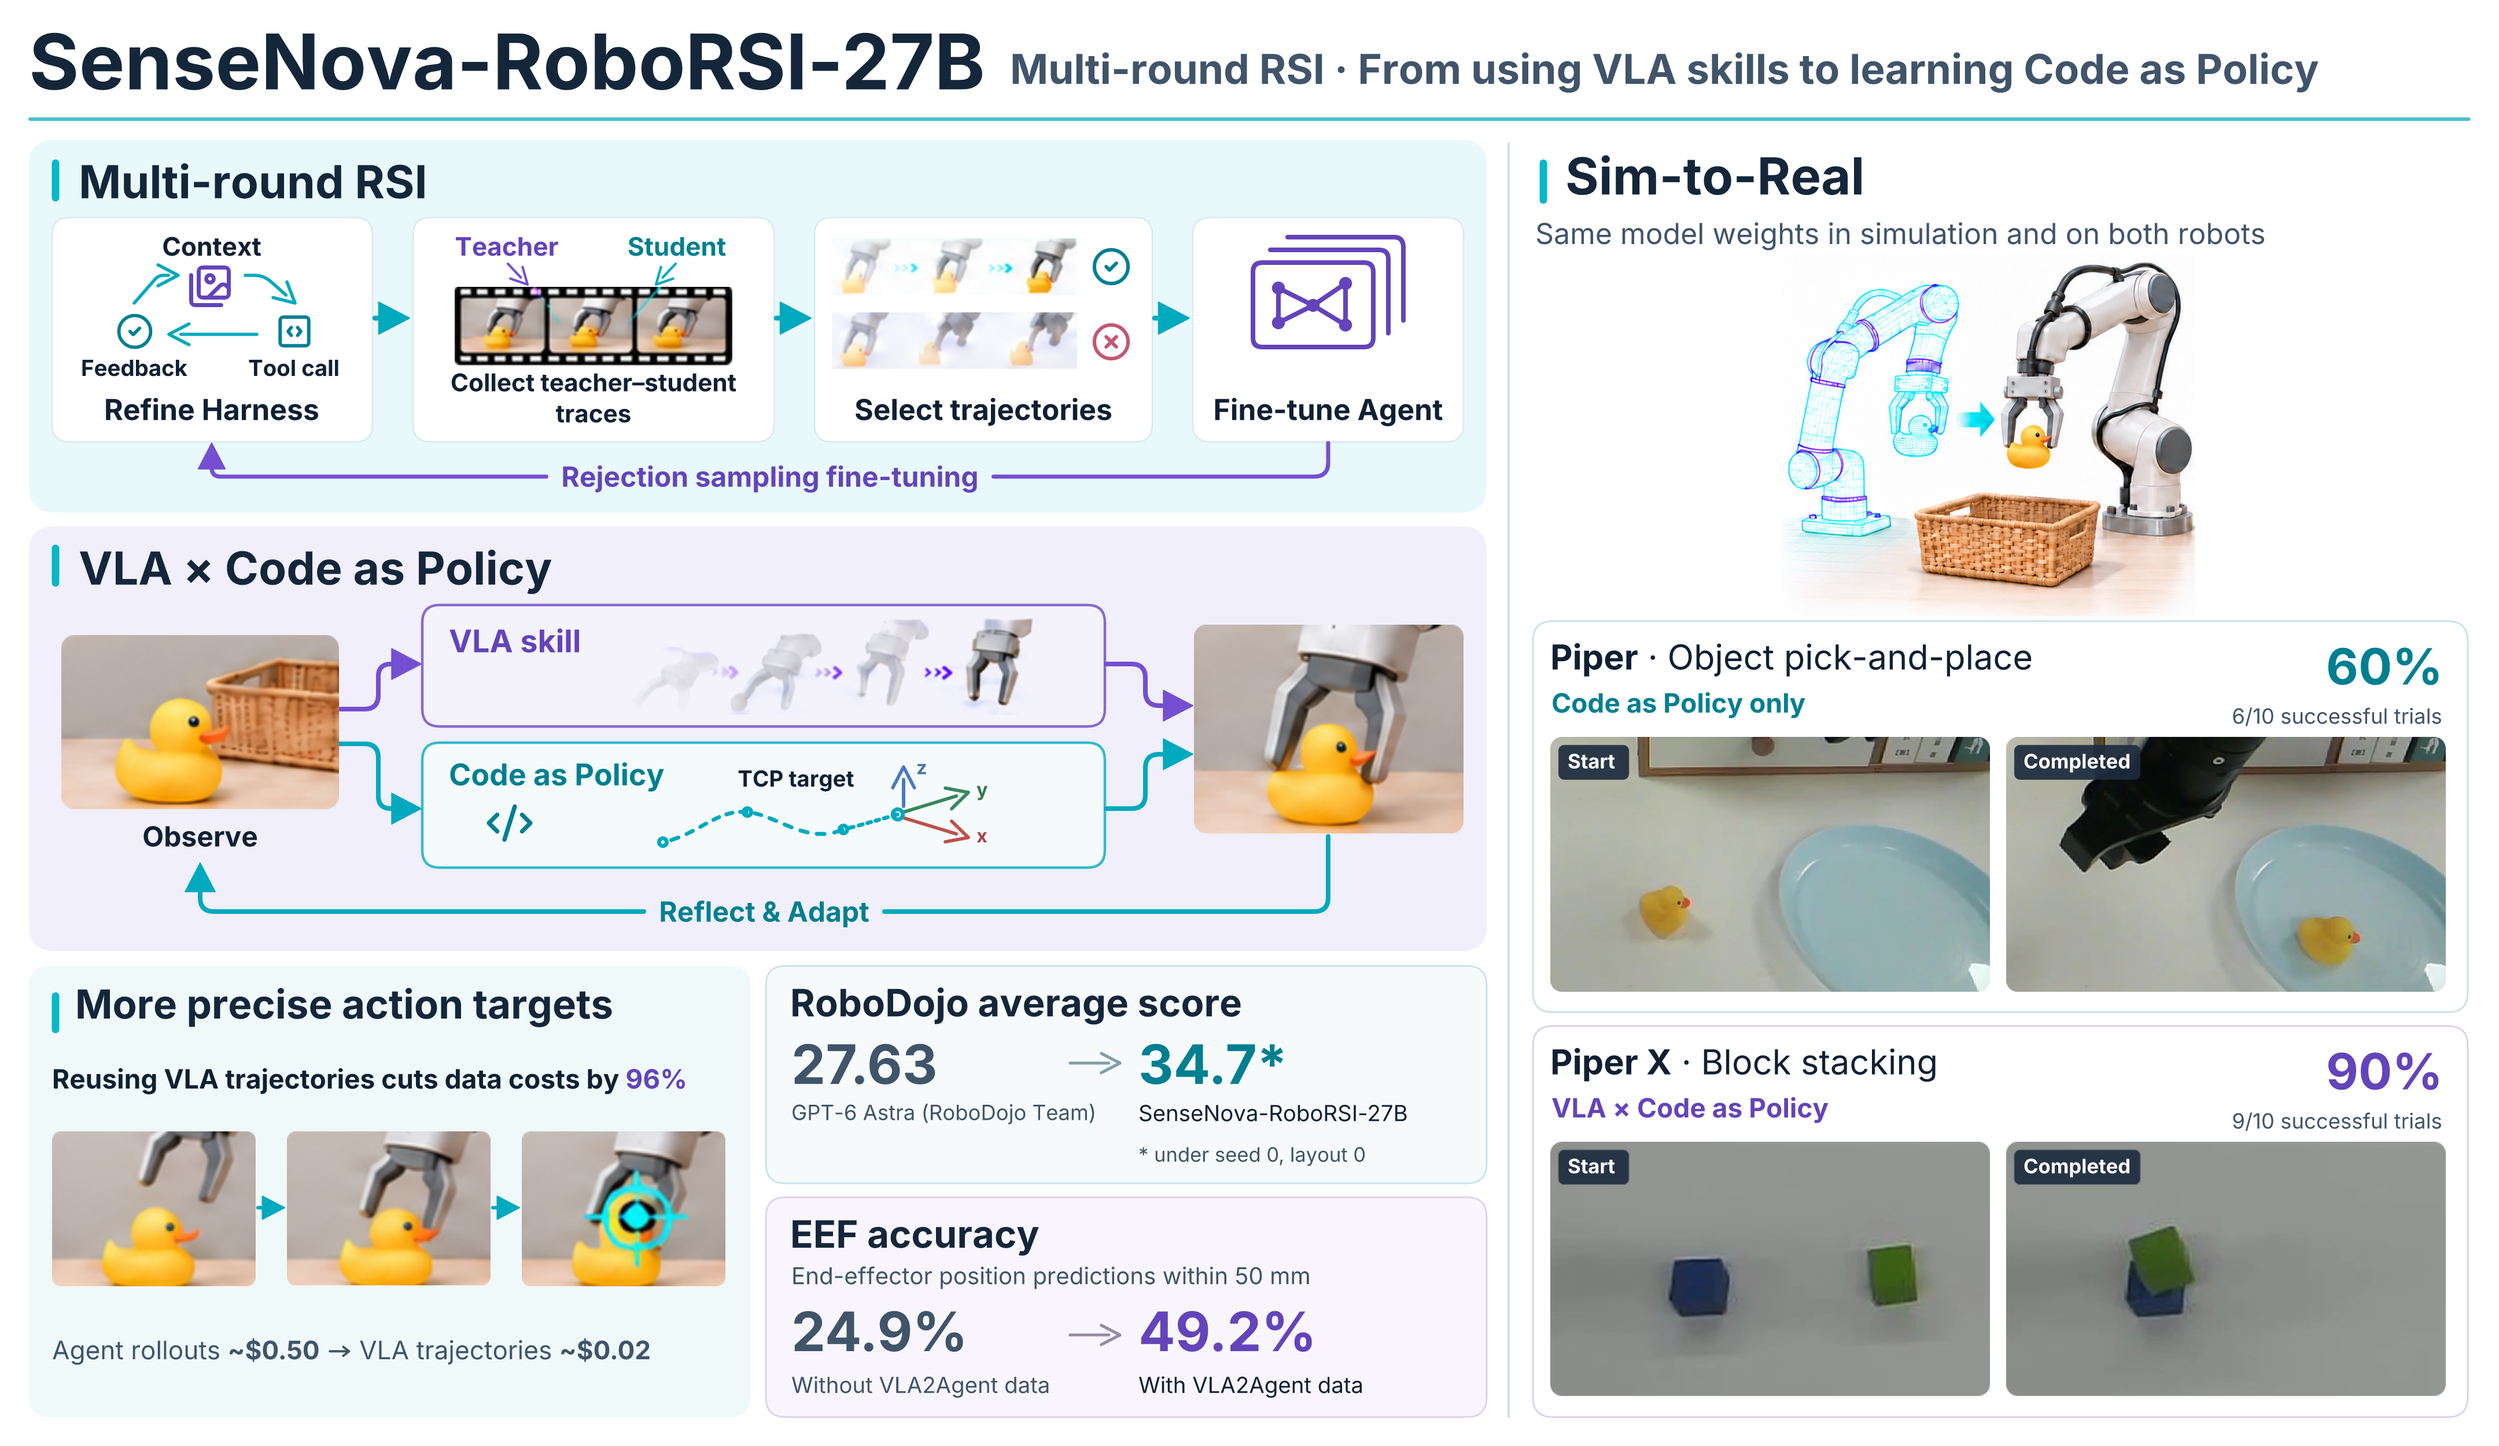
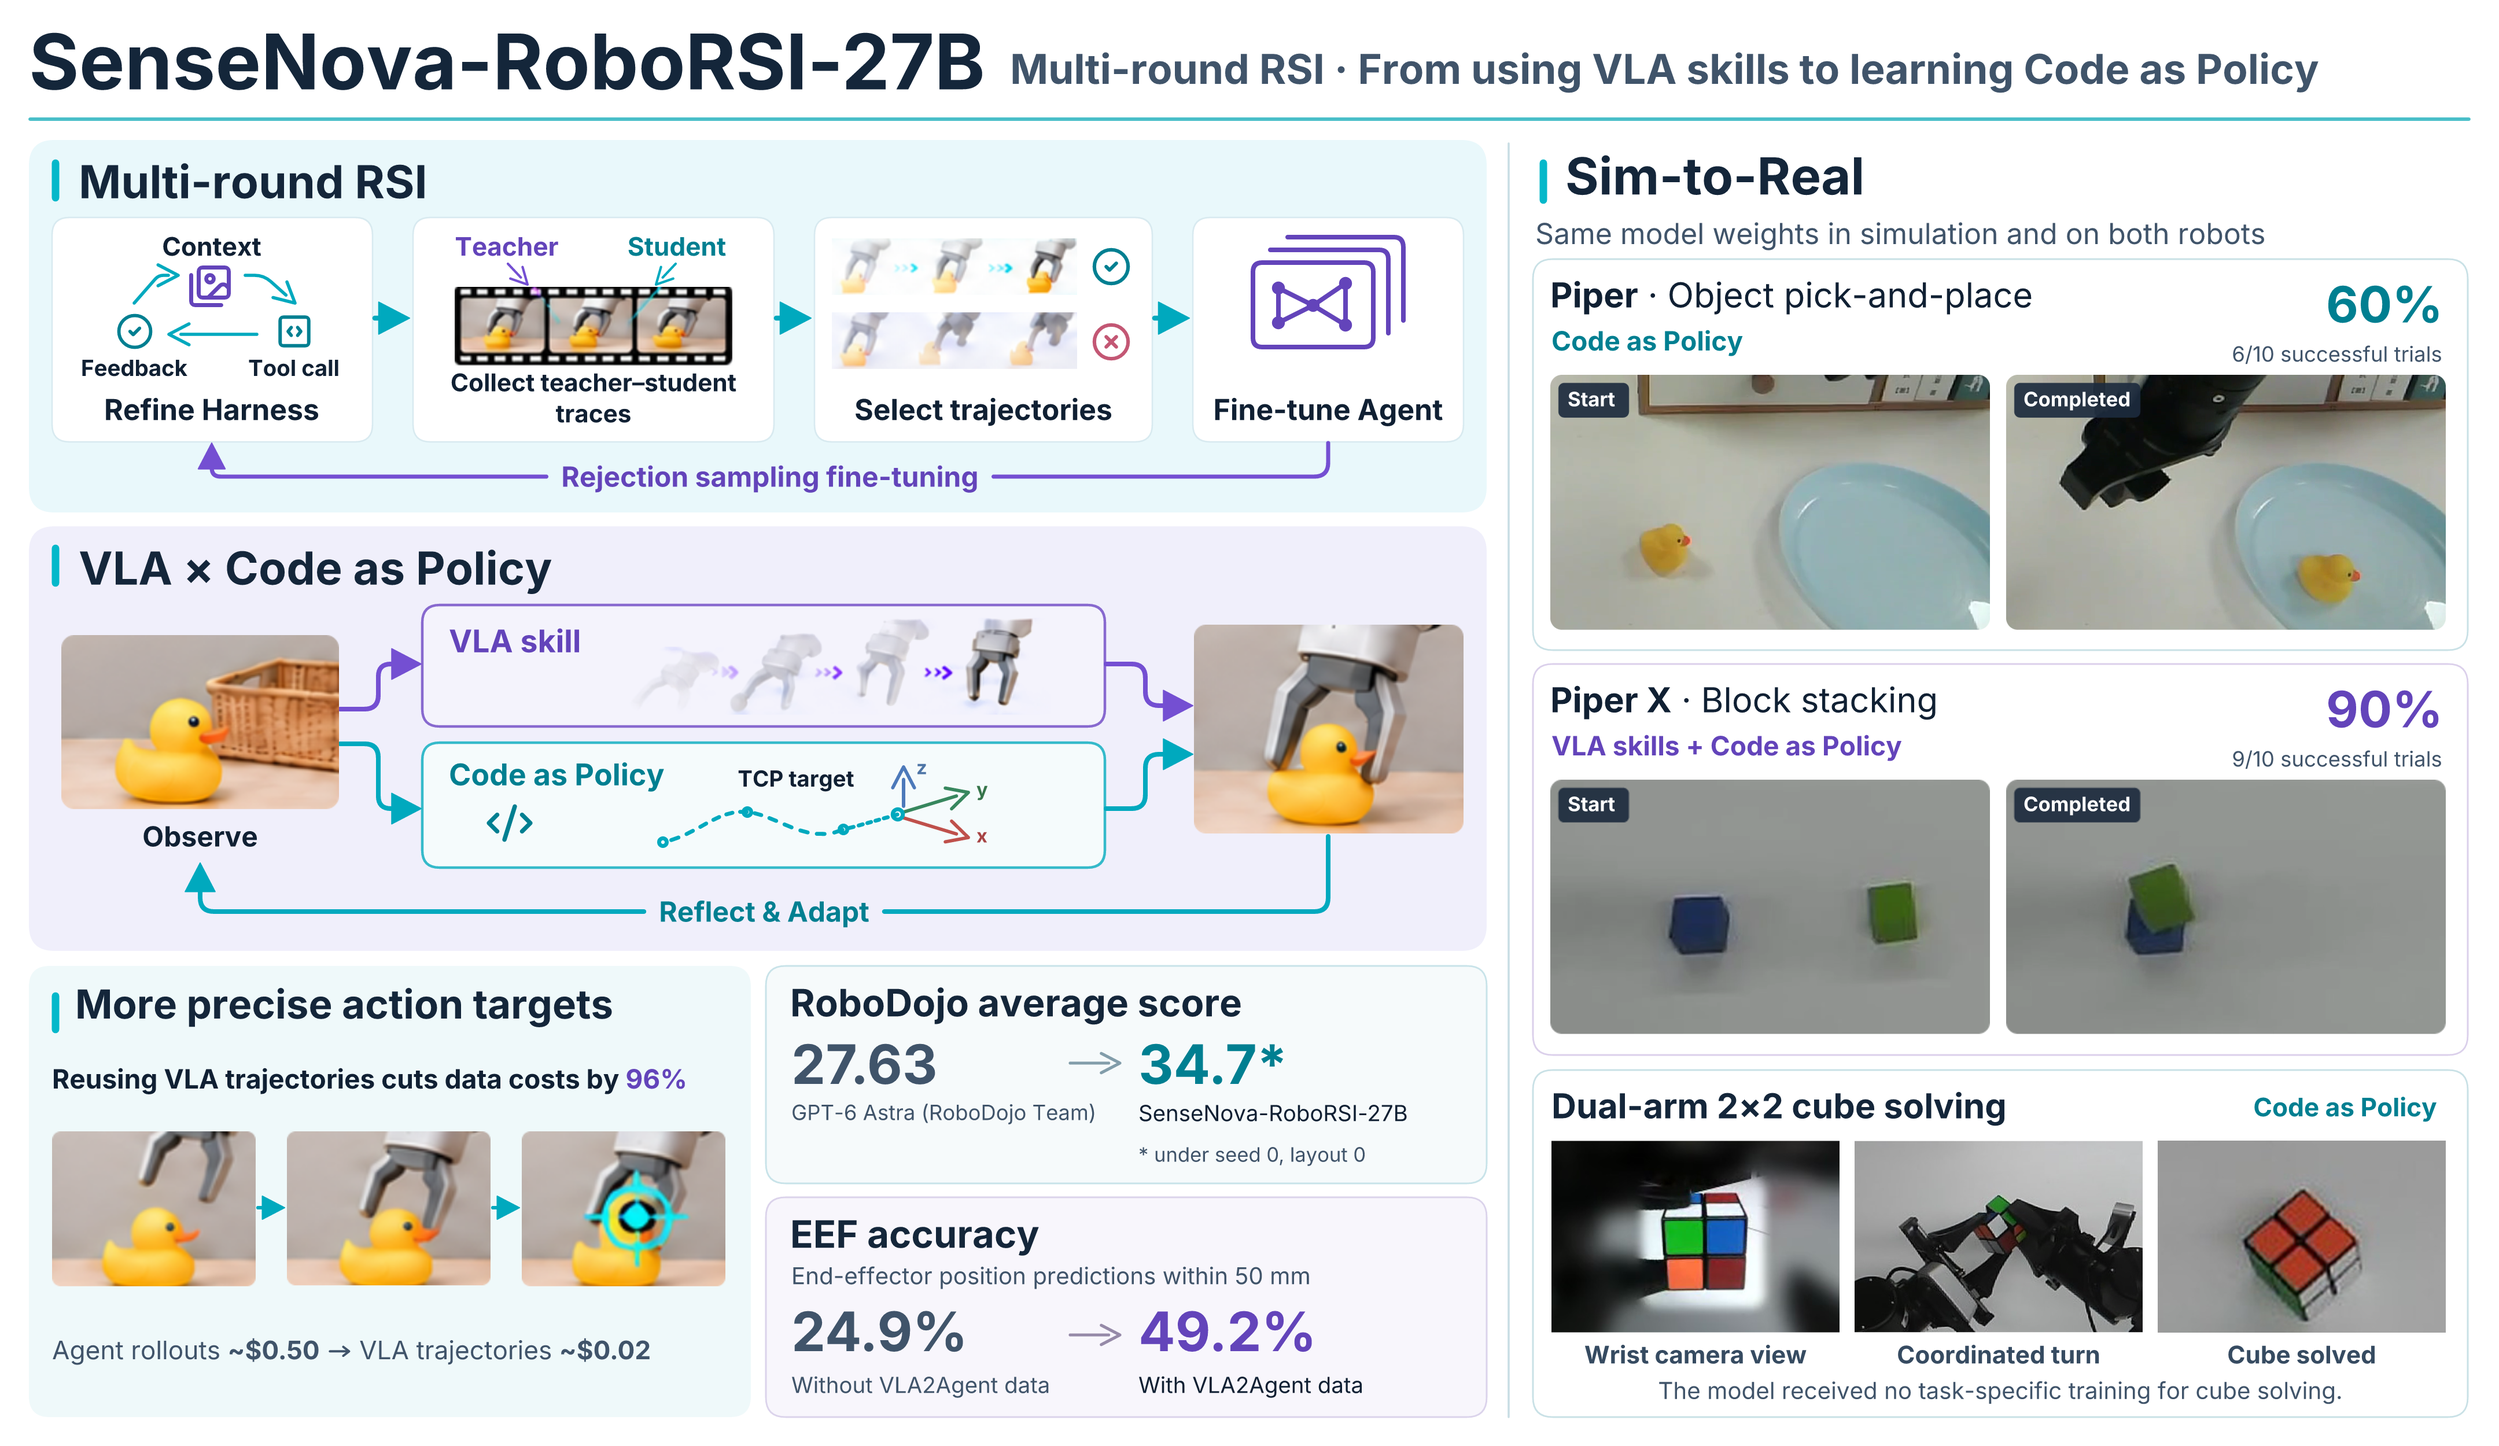
Add dual-arm cube solving to the bilingual model overview figures (#47)
Follow-up to #46. The English and Chinese model guides now show three real-robot examples in Figure 1: Piper pick-and-place, Piper X block stacking, and dual-arm 2×2 cube solving.

The cube sequence uses three frames from the published demo. Its final line states that the model received no task-specific training for cube solving. The two guides also update the figure caption and alt text.

Changed region(s): [[0.5938, 0.156, 1.0, 0.9672]]

diff --git a/docs/sensenova-roborsi-27b.md b/docs/sensenova-roborsi-27b.md
@@ -4,9 +4,9 @@
 
 SenseNova-RoboRSI-27B is a vision-language model for robot manipulation. It can request motion from a vision-language-action (VLA) policy, review a proposed trajectory, or write code to compute and execute a gripper target pose (Code as Policy). After each action, the agent uses new camera observations and robot state to decide what to do next.
 
-![Multi-round RSI, VLA and Code as Policy, end-effector accuracy, and results on Piper and Piper X](../assets/roborsi-27b-teaser.png)
+![Multi-round RSI, VLA and Code as Policy, end-effector accuracy, Piper pick-and-place, Piper X block stacking, and dual-arm cube solving](../assets/roborsi-27b-teaser.png)
 
-*Figure 1. The same checkpoint runs in RoboDojo and on two physical robot platforms.*
+*Figure 1. The same checkpoint runs in RoboDojo and on two physical robot platforms. The bottom-right sequence shows the robot inspecting, turning, and solving a 2×2 cube.*
 
 ## Results & Demos
 

diff --git a/docs/sensenova-roborsi-27b.zh-CN.md b/docs/sensenova-roborsi-27b.zh-CN.md
@@ -4,9 +4,9 @@
 
 SenseNova-RoboRSI-27B 是一款面向机器人操作的视觉语言模型。模型可以调用视觉语言动作策略（VLA）并审查候选轨迹，也可以编写代码计算夹爪的目标位姿，交给控制器执行（Code as Policy）。每次执行后，模型根据新的相机画面和机器人状态决定下一步动作。
 
-![多轮 RSI、VLA 与代码控制、末端位置预测精度及 Piper 和 Piper X 真机结果](../assets/roborsi-27b-teaser.zh-CN.png)
+![多轮 RSI、VLA 与 Code as Policy、末端位置预测精度，以及 Piper 抓放、Piper X 叠积木与双臂还原二阶魔方](../assets/roborsi-27b-teaser.zh-CN.png)
 
-*图 1　同一份模型权重用于 RoboDojo 仿真评测和两款真实机械臂。*
+*图 1　同一份模型权重用于 RoboDojo 仿真评测和两款真实机械臂。右下三帧展示双臂观察、转动并还原二阶魔方的过程。*
 
 ## 评测与演示
 
